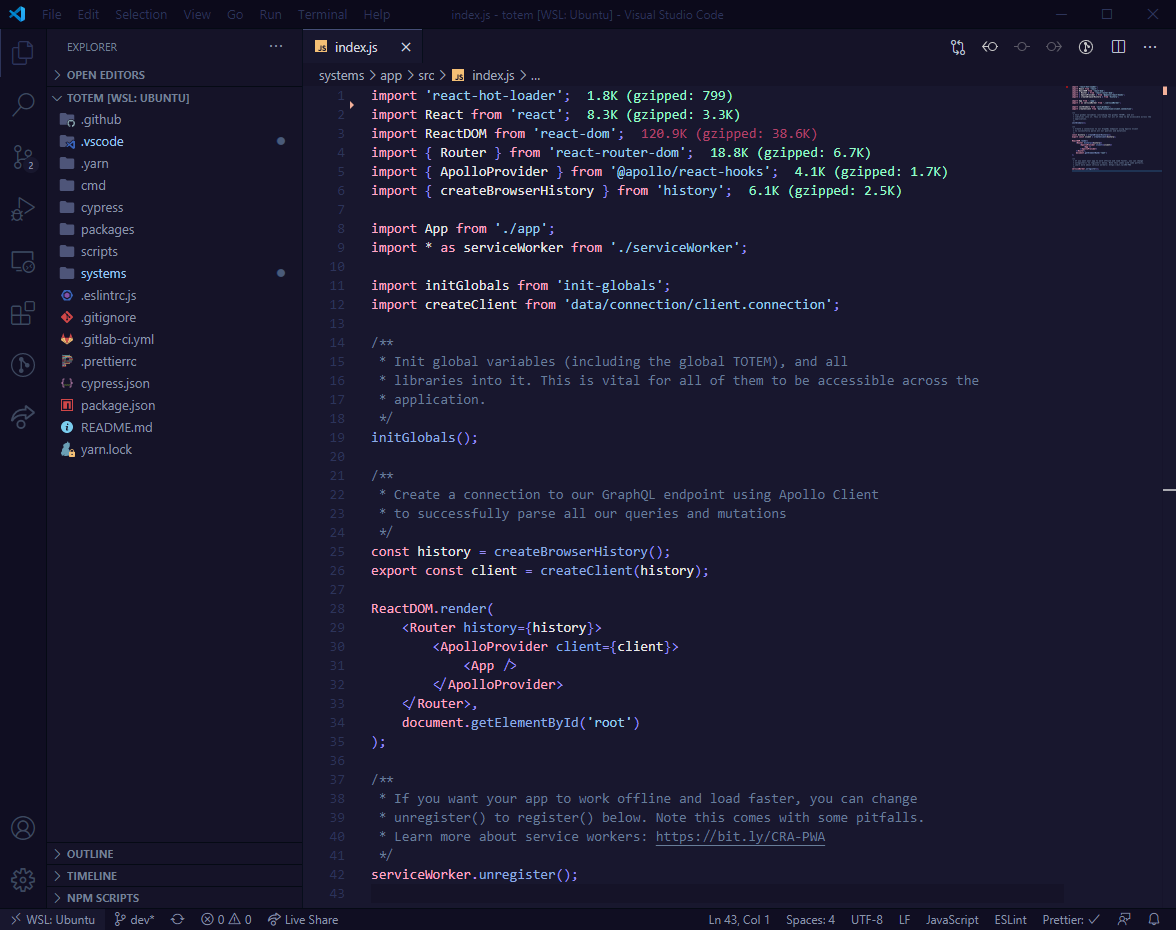
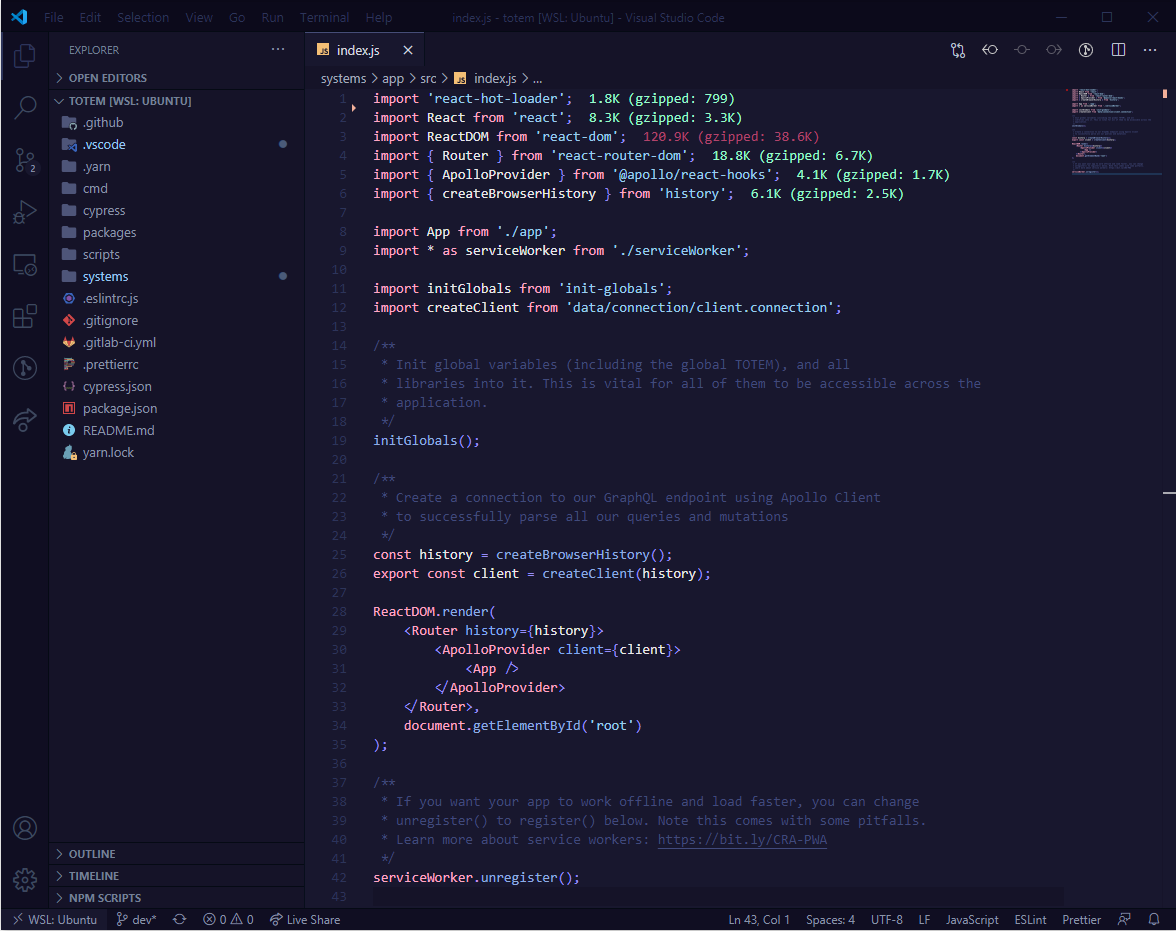
Update Minuit screenshot to reflect latest changes

diff --git a/CHANGELOG.md b/CHANGELOG.md
@@ -4,6 +4,15 @@ All notable changes to the "minuit" extension will be documented in this file.
 
 Check [Keep a Changelog](http://keepachangelog.com/) for recommendations on how to structure this file.
 
+## [1.1.4]
+
+-   Update Minuit screenshot to reflect latest changes
+
+## [1.1.3]
+
+-   Update comments and classes color in main theme
+-   Fix highlighted text not working properly in editor widget
+
 ## [1.1.2]
 
 -   Update editor gutter background color to be the same as editor background
